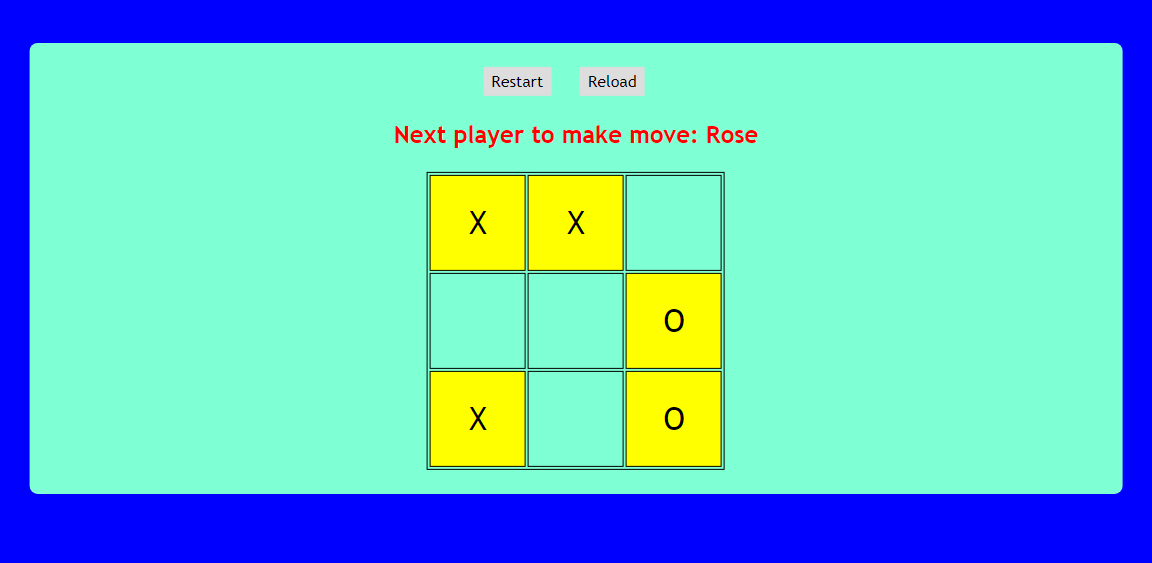
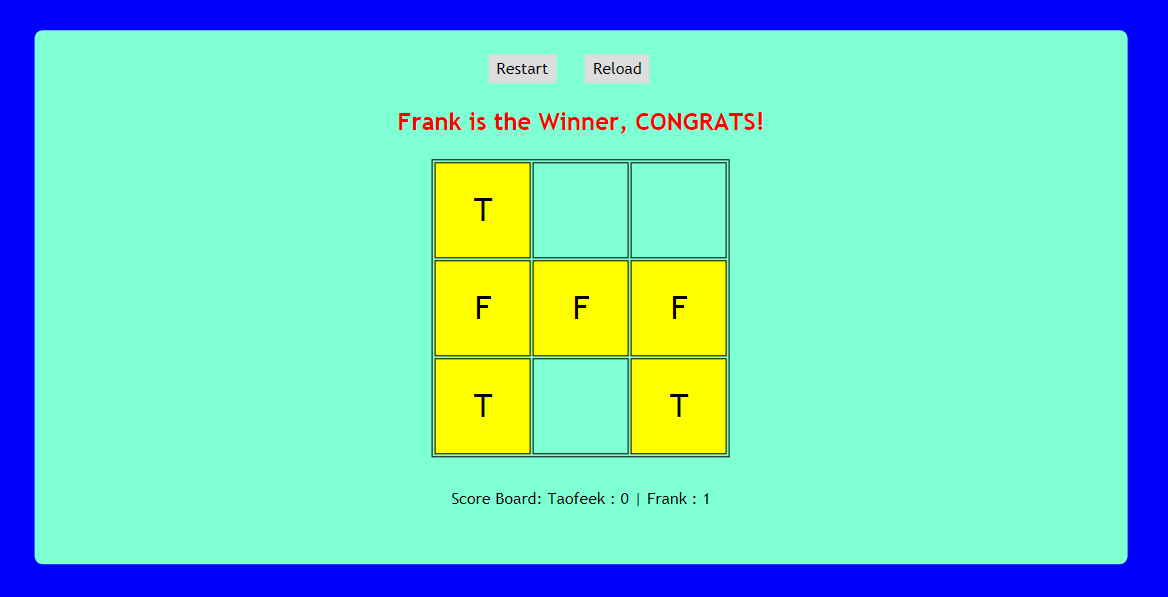
Update readme.md file

Changed region(s): [[0.0, 0.0302, 1.0, 0.9663]]

diff --git a/scripts/main.js b/scripts/main.js
@@ -60,8 +60,8 @@ start.addEventListener("click", (event) => {
   const player1 = document.getElementById("player1").value || "Taofeek";
   const player2 = document.getElementById("player2").value || "Frank";
 
-  players[0] = Player(player1, "X");
-  players[1] = Player(player2, "O");
+  players[0] = Player(player1, player1.slice(0, 1).toUpperCase());
+  players[1] = Player(player2, player2.slice(0, 1).toUpperCase());
 
   Elements.toggleComponent();
   Elements.setMessage(`First Player: ${players[0].getName()}`);

diff --git a/README.md b/README.md
@@ -1,6 +1,6 @@
 # Tic Tac Toe (JavaScript)
 
-> A tic tac toe game built with Vanilla JavaScript. This is a game played by two users (First user is represented with 'X' and second user is represented with 'O'.) A winner is determined when one of the users has successfully placed his/her mark on a straight line (either diagonal, vertical or horizontal).
+> A tic tac toe game built with Vanilla JavaScript. This is a game played by two players (with each player represented by the first character of their names respectively on the game board.) A winner is determined when one of the users has successfully placed his/her mark on a straight line (either diagonal, vertical or horizontal).
 
 ![screenshot](assets/screenshot.png)
 
